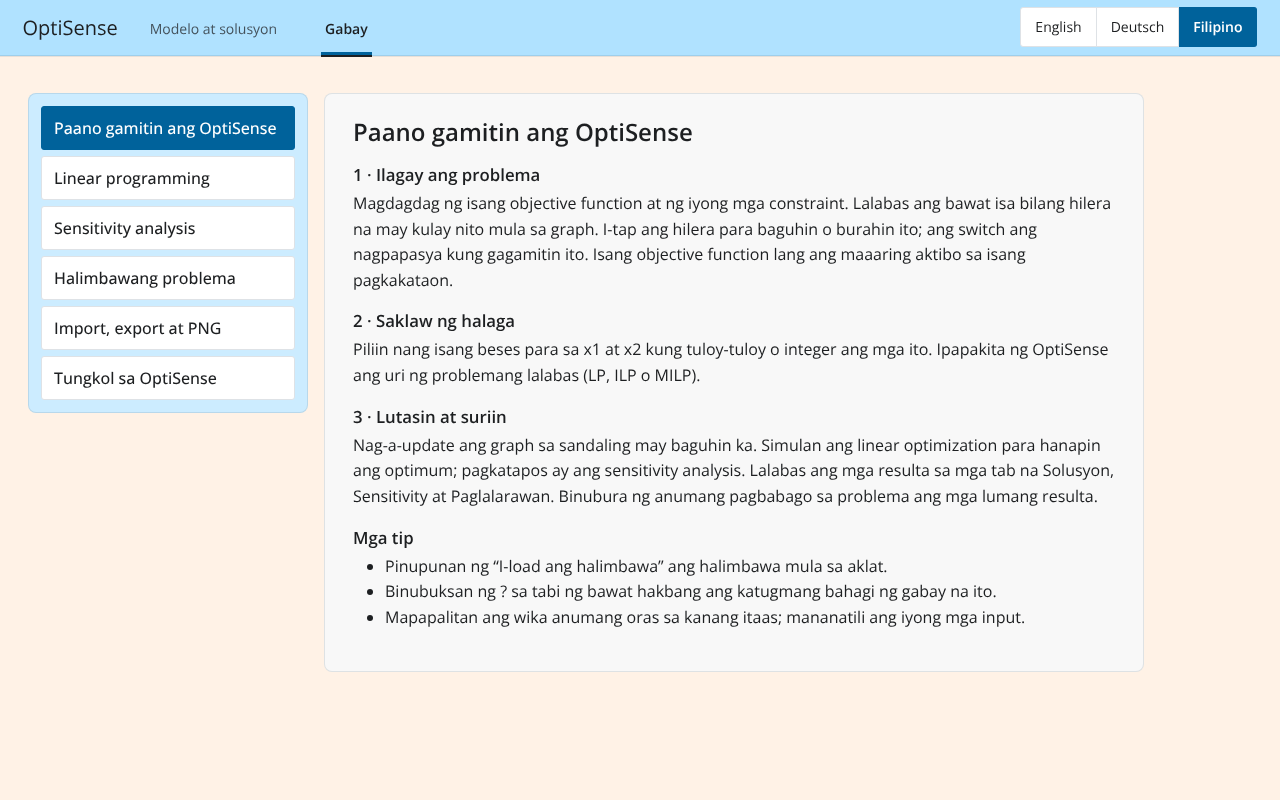
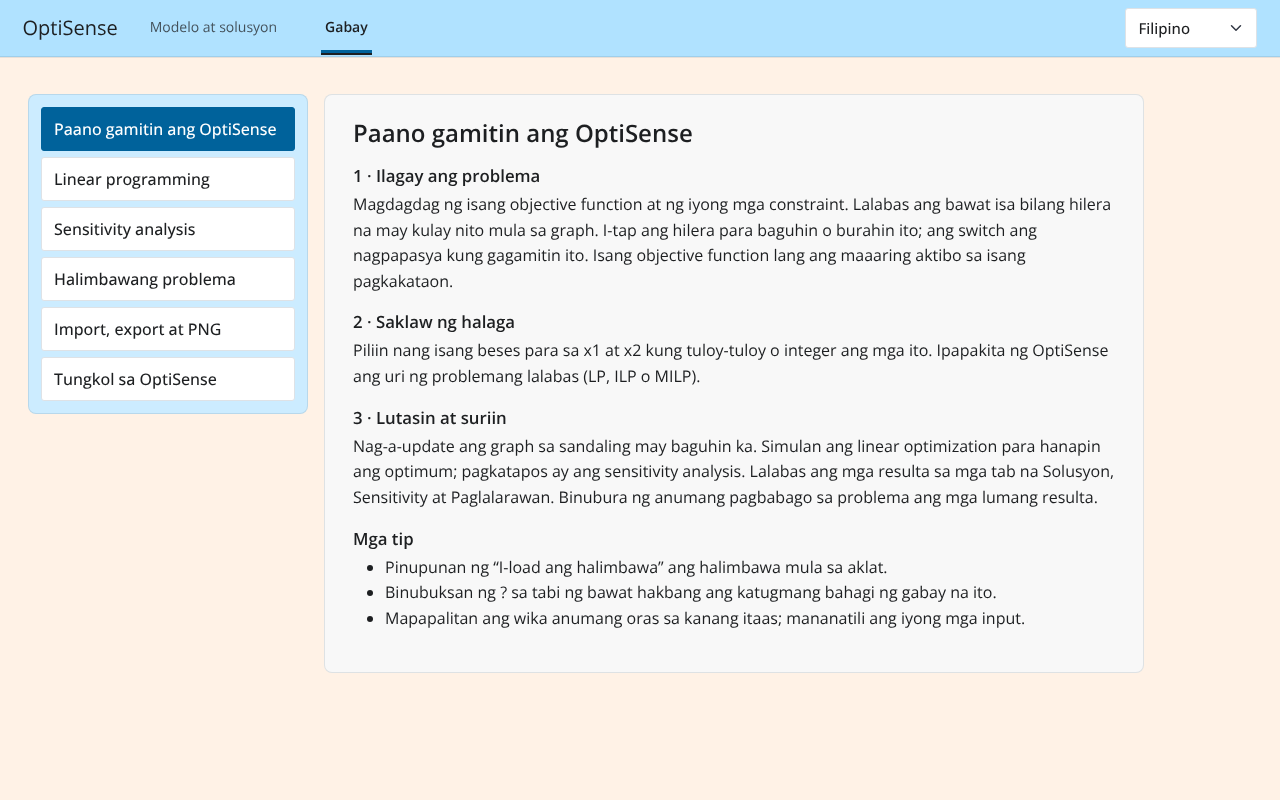
Graph as central element, language menu, sidebar toggle in graph header
- Language choice is one compact select (scales to more languages)
- Three columns side by side from 1024 px; results column narrower, graph takes the remaining width
- Sidebar can be hidden/shown with a button in the graph header
- Solution table: status shown under the constraint name

Claude-Session: https://claude.ai/code/session_017cmozmPaduFyfABBmjsSoP

diff --git a/shiny_files/www/optisense.css b/shiny_files/www/optisense.css
@@ -19,7 +19,8 @@
   --radius-modal: 0.5rem;
   --space-card: 1rem;
   --touch-target: 44px;
-  --sidebar-width: 340px;
+  --sidebar-width: clamp(268px, 23vw, 320px);
+  --results-width: clamp(296px, 26vw, 380px);
 
   --bs-primary: #00629b;
   --bs-primary-rgb: 0, 98, 155;
@@ -40,50 +41,49 @@ body { background: var(--surface-page); color: var(--ink); }
 .navbar .nav-link:focus-visible { outline: 3px solid var(--primary); outline-offset: -3px; }
 
 /* language switch and value-range choice: Shiny radio buttons drawn as a segmented control */
-.os-lang .shiny-input-container, .os-vt-row .shiny-input-container { margin: 0; }
-.os-lang .control-label, .os-vt-row .control-label { display: none; }
+.os-vt-row .shiny-input-container { margin: 0; }
+.os-vt-row .control-label { display: none; }
 .os-seg .shiny-options-group,
-.os-lang .shiny-options-group,
 .os-vt-row .shiny-options-group { display: flex; flex-wrap: nowrap; }
-.os-lang .radio-inline,
 .os-vt-row .radio-inline { margin: 0 !important; padding: 0 !important; flex: 1 1 0; position: relative; display: flex !important; }
 .os-vt-row .shiny-options-group { width: 100%; }
-.os-lang .shiny-options-group { gap: 0; }
-.os-lang .radio-inline input,
 .os-vt-row .radio-inline input { position: absolute; opacity: 0; width: 1px; height: 1px; margin: 0; }
-.os-lang .radio-inline input + span,
 .os-vt-row .radio-inline input + span {
   flex: 1; display: flex; align-items: center; justify-content: center; text-align: center; min-height: 40px; padding: 4px 10px;
   background: var(--surface-content); color: var(--ink); border: 1px solid var(--border); cursor: pointer; font-size: 0.875rem; line-height: 1.2;
 }
-.os-lang .radio-inline + .radio-inline input + span,
 .os-vt-row .radio-inline + .radio-inline input + span { border-left: 0; }
-.os-lang .radio-inline:first-child input + span,
 .os-vt-row .radio-inline:first-child input + span { border-radius: var(--radius-control) 0 0 var(--radius-control); }
-.os-lang .radio-inline:last-child input + span,
 .os-vt-row .radio-inline:last-child input + span { border-radius: 0 var(--radius-control) var(--radius-control) 0; }
-.os-lang .radio-inline input:checked + span,
 .os-vt-row .radio-inline input:checked + span { background: var(--primary); border-color: var(--primary); color: #fff; font-weight: 600; }
-.os-lang .radio-inline input:focus-visible + span,
 .os-vt-row .radio-inline input:focus-visible + span { outline: 3px solid var(--primary); outline-offset: 2px; position: relative; z-index: 1; }
-.os-lang .radio-inline input + span { padding: 4px 14px; }
-.os-lang { padding: 6px 0; }
+
+
+/* language: one compact native select, scales to any number of languages */
+.os-lang { padding: 8px 0; }
+.os-lang .shiny-input-container { margin: 0; width: auto !important; }
+.os-lang .control-label { display: none; }
+.os-lang select.form-select {
+  min-height: 40px; min-width: 132px; padding: 6px 34px 6px 12px; font-size: 0.9375rem; font-weight: 500;
+  background-color: var(--surface-content); color: var(--ink); border: 1px solid var(--border); border-radius: var(--radius-control); cursor: pointer;
+}
+.os-lang select.form-select:focus-visible { outline: 3px solid var(--primary); outline-offset: 2px; box-shadow: none; }
 
 /* ---------------------------------------------------------------- layout */
-.os-layout { --_sidebar-bg: transparent; --bslib-sidebar-bg: transparent; --bslib-sidebar-main-bg: transparent; background: transparent; }
-.os-layout > .sidebar, .os-layout > .main { background: transparent !important; }
-.os-layout > .sidebar { border-right: 0 !important; }
-.os-layout > .sidebar > .sidebar-content { padding: 16px 8px 16px 16px; }
-.os-layout > .main { padding: 16px; }
-.os-main { display: grid; grid-template-columns: minmax(0, 1fr) minmax(380px, 440px); gap: 16px; height: 100%; min-height: 0; }
+.bslib-sidebar-layout { --_sidebar-bg: transparent; --bslib-sidebar-bg: transparent; --bslib-sidebar-main-bg: transparent; background: transparent; }
+.bslib-sidebar-layout > .sidebar, .bslib-sidebar-layout > .main { background: transparent !important; }
+.bslib-sidebar-layout > .sidebar { border-right: 0 !important; }
+.bslib-sidebar-layout > .sidebar > .sidebar-content { padding: 16px 8px 16px 16px; }
+.bslib-sidebar-layout > .main { padding: 12px 12px 12px 4px; }
+.os-main { display: grid; grid-template-columns: minmax(0, 1fr) var(--results-width); gap: 12px; height: 100%; min-height: 0; }
 .os-results { min-height: 0; display: flex; }
 .os-results > .card { flex: 1; min-height: 0; }
 
-@media (max-width: 1279.98px) {
+@media (max-width: 1023.98px) {
   .os-main { grid-template-columns: minmax(0, 1fr); height: auto; }
   .os-graph { height: min(80vw, 620px) !important; min-height: 420px; }
   .os-results > .card { min-height: 420px; }
-  .os-layout > .main { overflow-y: auto; }
+  .bslib-sidebar-layout > .main { overflow-y: auto; }
 }
 
 /* ---------------------------------------------------------------- cards */
@@ -93,7 +93,7 @@ body { background: var(--surface-page); color: var(--ink); }
 .os-graph .card-header, .os-results .card-header { background: transparent; border-bottom: 1px solid var(--hairline); font-size: 0.9rem; font-weight: 600; }
 .os-card-header { display: flex; align-items: center; gap: 12px; }
 .os-header-action { margin-left: auto; font-weight: 500; }
-.os-graph .card-body { background: var(--surface-content); margin: 12px; border-radius: var(--radius-card); border: 1px solid var(--hairline); padding: 8px; }
+.os-graph .card-body { background: var(--surface-content); margin: 8px; border-radius: var(--radius-card); border: 1px solid var(--hairline); padding: 8px; }
 .os-results .card-header { display: flex; flex-direction: column; align-items: stretch; gap: 8px; padding-bottom: 0; }
 .os-results .card-header .nav-tabs { border-bottom: 0; margin: 0 -4px; }
 .os-results .card-header .nav-link { min-height: var(--touch-target); display: flex; align-items: center; color: var(--ink-muted); font-weight: 500; }
@@ -220,3 +220,25 @@ body { background: var(--surface-page); color: var(--ink); }
 .btn.btn-link.os-header-action { margin-left: auto; padding: 4px 6px; min-height: 36px; font-size: 0.875rem; font-weight: 500; color: var(--primary); text-decoration: none; }
 .btn.btn-link.os-header-action:hover { text-decoration: underline; }
 .btn.btn-link.os-header-action:disabled { color: var(--ink-muted); opacity: .7; }
+
+/* narrower results column: status tag sits under the constraint name */
+.os-cell-name .os-tag { margin-top: 3px; }
+.os-results .card-body { font-size: 0.875rem; }
+.os-kpis { grid-template-columns: 1.3fr 1fr 1fr; gap: 8px; }
+.os-kpi { padding: 6px 10px; }
+.os-kpi b { font-size: 1.3rem; }
+.os-results .card-header .nav-link { padding-left: 10px; padding-right: 10px; }
+/* the sidebar toggle is easy to find and to tap */
+.bslib-sidebar-layout > .collapse-toggle { width: 32px; height: 32px; border-radius: 16px; background: var(--surface-content) !important;
+  border: 1px solid var(--border); color: var(--ink); opacity: 1; top: 12px; }
+.bslib-sidebar-layout > .collapse-toggle:hover { border-color: var(--primary); color: var(--primary); }
+.bslib-sidebar-layout > .collapse-toggle { display: none !important; }
+@media (max-width: 1199.98px) {
+  .os-results .card-header .nav-link { padding-left: 7px; padding-right: 7px; font-size: 0.8125rem; }
+  .os-step-status { display: none; }
+}
+
+.os-sidebar-btn { flex: none; width: 32px; height: 32px; margin-left: -4px; border-radius: var(--radius-control); border: 1px solid var(--border);
+  background: var(--surface-content); color: var(--ink); font-size: 1.25rem; line-height: 1; padding: 0 0 2px; font-weight: 400; }
+.os-sidebar-btn:hover { border-color: var(--primary); color: var(--primary); }
+.os-sidebar-btn:focus-visible { outline: 3px solid var(--primary); outline-offset: 2px; }

diff --git a/shiny_files/www/optisense.js b/shiny_files/www/optisense.js
@@ -2,7 +2,7 @@
    language, list-row interactions, help buttons and the guide navigation. */
 (function () {
   "use strict";
-  var LANGS = ["en", "de", "fil"];
+  var LANGS = Object.keys(window.OS_I18N || { en: 1 });
   var current = "en";
 
   function storedLang() {
@@ -36,7 +36,7 @@
   // Shiny's own language radio buttons drive everything
   document.addEventListener("change", function (ev) {
     var t = ev.target;
-    if (t && t.name === "lang") setLang(t.value);
+    if (t && t.id === "lang") setLang(t.value);
     if (t && t.matches && t.matches("[data-toggle-kind]")) {
       Shiny.setInputValue("row_toggle", { kind: t.getAttribute("data-toggle-kind"), id: +t.getAttribute("data-id"),
         on: t.checked, n: Date.now() }, { priority: "event" });
@@ -56,6 +56,8 @@
     if (row) { rowActivate(row); return; }
     var help = el.closest("[data-help]");
     if (help) { Shiny.setInputValue("help_topic", { topic: help.getAttribute("data-help"), n: Date.now() }, { priority: "event" }); return; }
+    var tg = el.closest("[data-sidebar-toggle]");
+    if (tg) { var native = document.querySelector(".bslib-sidebar-layout > .collapse-toggle"); if (native) native.click(); [50, 400].forEach(function (d) { setTimeout(syncSidebarBtn, d); }); return; }
     var g = el.closest("[data-guide]");
     if (g) { selectGuide(g.getAttribute("data-guide")); }
   });
@@ -64,6 +66,15 @@
     var row = ev.target && ev.target.closest && ev.target.closest(".os-row[data-kind]");
     if (row && (ev.key === "Enter" || ev.key === " ") && !ev.target.closest(".os-switch")) { ev.preventDefault(); rowActivate(row); }
   });
+
+  function syncSidebarBtn() {
+    var layout = document.querySelector(".bslib-sidebar-layout");
+    var open = !layout || !layout.classList.contains("sidebar-collapsed");
+    document.querySelectorAll("[data-sidebar-toggle]").forEach(function (b) {
+      b.textContent = open ? "‹" : "›";
+      b.setAttribute("aria-expanded", open ? "true" : "false");
+    });
+  }
 
   function selectGuide(topic) {
     document.querySelectorAll(".os-guide-tab").forEach(function (b) {
@@ -86,10 +97,13 @@
 
   $(document).on("shiny:connected", function () {
     var lang = storedLang();
-    var radio = document.querySelector('input[name="lang"][value="' + lang + '"]');
-    if (radio && !radio.checked) { radio.checked = true; $(radio).trigger("change"); }
+    var sel = document.getElementById("lang");
+    if (sel && sel.value !== lang) { sel.value = lang; $(sel).trigger("change"); }
     setLang(lang);
     selectGuide("steps");
+    setTimeout(syncSidebarBtn, 300);
+    var native = document.querySelector(".bslib-sidebar-layout > .collapse-toggle");
+    if (native) new MutationObserver(syncSidebarBtn).observe(native, { attributes: true, attributeFilter: ["aria-expanded"] });
   });
 
   // a step's "?" may ask the server to switch to the guide tab; the server sends this message

diff --git a/shiny_files/server.py b/shiny_files/server.py
@@ -445,7 +445,7 @@ def server(input, output, session):
             tag = tags.span(tr("binding" if act["binding"] else "non_binding"),
                             class_="os-tag" + (" is-binding" if act["binding"] else ""))
             rows.append(tags.tr(
-                tags.td(con_swatch(con), con["name"]), tags.td(tag),
+                tags.td(tags.div(con_swatch(con), con["name"]), tag, class_="os-cell-name"),
                 tags.td(f"{num(act['lhs'])} {con['op']} {num(con['b'])}", class_="num"),
                 tags.td(num(act["slack"]), class_="num")))
         binding = [con["name"] for con, act in zip(cons, activity) if act["binding"]]
@@ -457,7 +457,7 @@ def server(input, output, session):
                 class_="os-kpis",
             ),
             tags.table(
-                tags.thead(tags.tr(tags.th(tr("col_constraint")), tags.th(tr("col_status")),
+                tags.thead(tags.tr(tags.th(tr("col_constraint")),
                                    tags.th(tr("col_lhs"), class_="num"), tags.th(tr("col_slack"), class_="num"))),
                 tags.tbody(*rows), class_="os-table"),
             tags.p(tr("solution_sentence", x1=num(sol["x1"]), x2=num(sol["x2"]), name=obj["name"], value=num(sol["value"]))),

diff --git a/shiny_files/user_interface.py b/shiny_files/user_interface.py
@@ -68,7 +68,7 @@ sidebar = ui.sidebar(
         ui.output_ui("solve_hint"),
     ),
     tr("credit", tag="div", class_="os-credit"),
-    width=340,
+    width="var(--sidebar-width)",
     open="desktop",
     gap="12px",
     class_="os-sidebar",
@@ -76,6 +76,9 @@ sidebar = ui.sidebar(
 
 graph_card = ui.card(
     ui.card_header(
+        ui.tags.button("‹", type="button", class_="os-sidebar-btn", title="Show or hide the steps",
+                       **{"data-sidebar-toggle": "1", "data-i18n-aria": "toggle_sidebar", "aria-label": "Show or hide the steps",
+                          "aria-expanded": "true"}),
         tr("graph"),
         ui.input_action_button("btn_png", tr("save_png"), class_="btn-link os-header-action", disabled=True),
         class_="os-card-header",
@@ -121,7 +124,7 @@ guide_panel = ui.nav_panel(
 
 language_switch = ui.nav_control(
     ui.div(
-        ui.input_radio_buttons("lang", None, LANGS, selected="en", inline=True),
+        ui.input_select("lang", None, LANGS, selected="en", selectize=False, width="auto"),
         class_="os-lang",
         **{"data-i18n-aria": "language", "aria-label": "Language"},
     )

diff --git a/shiny_files/i18n.py b/shiny_files/i18n.py
@@ -16,6 +16,7 @@ TEXT = {
     "tab_work": {"en": "Model & solution", "de": "Modell & Lösung", "fil": "Modelo at solusyon"},
     "tab_guide": {"en": "Guide", "de": "Anleitung", "fil": "Gabay"},
     "language": {"en": "Language", "de": "Sprache", "fil": "Wika"},
+    "toggle_sidebar": {"en": "Show or hide the steps", "de": "Schritte ein- oder ausblenden", "fil": "Ipakita o itago ang mga hakbang"},
     "help": {"en": "Help", "de": "Hilfe", "fil": "Tulong"},
     "credit": {"en": "OptiSense 2.0 · by Peter Oliver Ruhland", "de": "OptiSense 2.0 · von Peter Oliver Ruhland",
                "fil": "OptiSense 2.0 · gawa ni Peter Oliver Ruhland"},

diff --git a/README.md b/README.md
@@ -96,7 +96,7 @@ Then open `http://localhost:8000` in your browser. With Docker: `docker compose 
 - **Exact graph** – the feasible region is computed geometrically (LP polygon, integer lattice points, MILP lines), constraints have fixed colours and are labelled directly in the graph.
 - **Solve** with `scipy.optimize.milp`; infeasible and unbounded problems are explained instead of failing.
 - **Sensitivity analysis** with `lp_solve`: shadow prices with their valid range of b, objective-coefficient ranges, and a sentence explaining each result.
-- **Three languages** – English, German and Filipino, switchable at any time without losing input.
+- **Languages** – English, German and Filipino in a compact language menu (more can be added), switchable at any time without losing input.
 - **Import & export** in the LP format (files from earlier versions still import) and **PNG export** of the graph.
 - Built for student laptops and iPads from 12 inch (works from 1024 × 650 px, touch targets ≥ 44 px).
 
@@ -104,7 +104,7 @@ Then open `http://localhost:8000` in your browser. With Docker: `docker compose 
 
 ![Model & solution tab](docs/screenshots/arbeitsseite-de.png)
 
-**Model & solution**: left, the three workflow steps; middle, the graphical solution; right, the results in the tabs *Solution*, *Sensitivity* and *Description*. On narrower screens (e.g. iPad portrait) the results move below the graph.
+**Model & solution**: the graphical solution is the central element; left, the three workflow steps (can be hidden with the ‹ button in the graph header); right, the results in the tabs *Solution*, *Sensitivity* and *Description*. All three columns stay side by side from 1024 px width.
 
 ![Guide tab](docs/screenshots/anleitung-fil.png)
 
